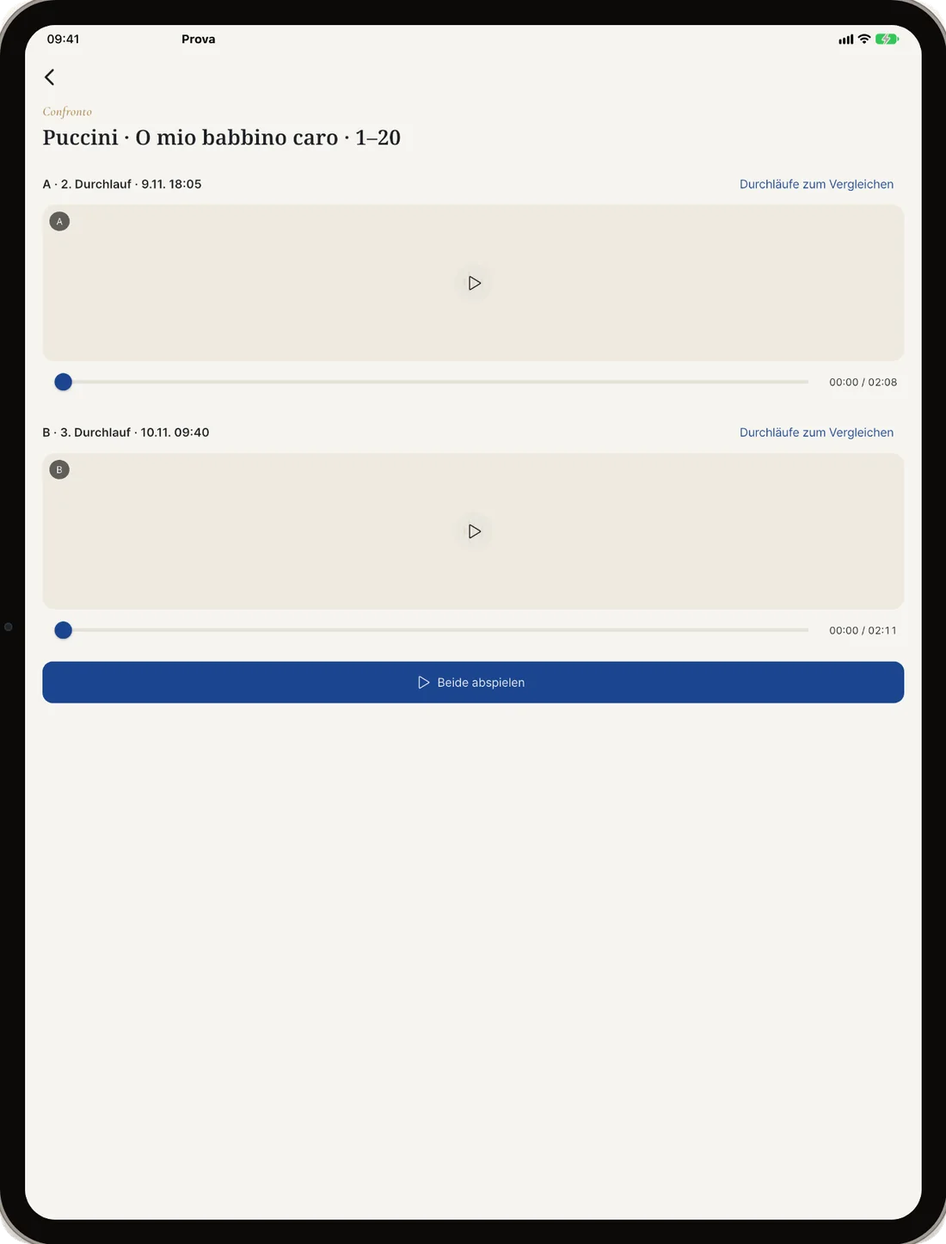
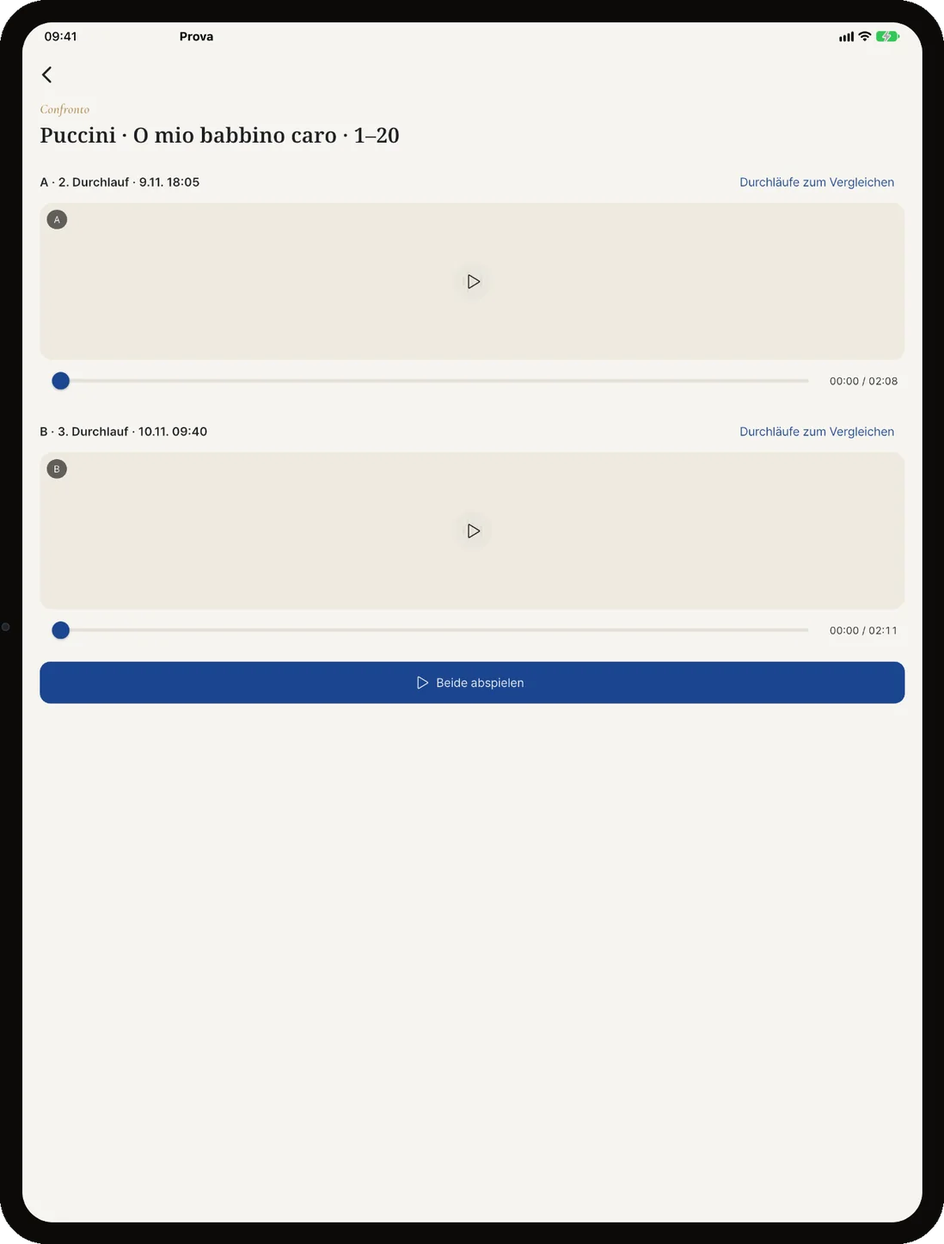
프로바 그림 모서리 흰 테 없애고 "내려받기" 제목 뺌
1. 모서리 halo
   마스크 반경이 46 이었는데 기기의 실제 모서리 반경은 **아이폰 118,
   아이패드 70** 이다(원본에서 재서 찾았다). 마스크가 기기 모서리보다
   작으니 모서리 바깥의 밝은 배경이 그림 안에 남아 흰 테처럼 보였다.
   - 기기마다 제 반경을 쓴다(IPHONE_R, IPAD_R). 그림자도 같은 반경.
   - 가장자리를 4px 안쪽에서 자른다(INSET). 원본에서 테두리와 배경이
     섞인 줄은 알파만 깎으면 색이 밝은 채로 남는다.
   잰 결과: 반투명 픽셀 평균 밝기 244 → 10~43, 밝은 테 픽셀 거의 0.

   배경을 구워 넣는 길은 안 썼다. 이 페이지에는 다크 모드가 있어
   (prefers-color-scheme:dark) 상아색을 구우면 어두운 화면에서 밝은
   덩어리가 된다.

2. "내려받기" 제목을 뺐다. 바로 아래 스토어 배지가 그 말을 한다.
   렛지 페이지에서도 같이 뺐다.

diff --git a/leggii/index.html b/leggii/index.html
@@ -120,7 +120,7 @@ footer a{color:var(--soft);margin-right:16px}
 <div data-l="ko" class="sum"><h2>렛지가 해 주는 일</h2><p class="sub">여덟 가지입니다. 아래에서 셋은 더 자세히 보실 수 있습니다.</p><div class="tiles"><div class="tile"><img data-shot="t1" src="/leggii/shots/en/t1.webp" alt="악보를 한곳에" width="720" height="540" loading="lazy" decoding="async"><div class="tx"><h3>악보를 한곳에</h3><p>PDF·카메라·IMSLP에서 가져와 한곳에</p></div></div><div class="tile"><img data-shot="t2" src="/leggii/shots/en/t2.webp" alt="연필처럼 적습니다" width="720" height="540" loading="lazy" decoding="async"><div class="tx"><h3>연필처럼 적습니다</h3><p>펜·형광펜·음악 기호 스탬프, Apple Pencil</p></div></div><div class="tile"><img data-shot="t3" src="/leggii/shots/en/t3.webp" alt="녹음하면 악보가 따라 넘어갑니다" width="720" height="540" loading="lazy" decoding="async"><div class="tx"><h3>녹음하면 악보가 따라 넘어갑니다</h3><p>어느 쪽을 언제 넘겼는지 함께 저장돼, 다시 들으면 따라 넘어갑니다</p></div></div><div class="tile"><img data-shot="t4" src="/leggii/shots/en/t4.webp" alt="들은 말을 시간과 페이지로" width="720" height="540" loading="lazy" decoding="async"><div class="tx"><h3>들은 말을 시간과 페이지로</h3><p>핵심·지적·숙제를 시간과 페이지로</p></div></div><div class="tile"><img data-shot="t6" src="/leggii/shots/en/t6.webp" alt="판본을 골라서 받습니다" width="720" height="540" loading="lazy" decoding="async"><div class="tx"><h3>판본을 골라서 받습니다</h3><p>출판사·가사 언어·편곡자를 보고 골라 받기</p></div></div><div class="tile"><img data-shot="t7" src="/leggii/shots/en/t7.webp" alt="메트로놈과 건반을 악보 위에" width="720" height="540" loading="lazy" decoding="async"><div class="tx"><h3>메트로놈과 건반을 악보 위에</h3><p>악보를 가리지 않고 그 위에 떠 있습니다</p></div></div><div class="tile"><img data-shot="t8" src="/leggii/shots/en/t8.webp" alt="물어보면 찾아 줍니다" width="720" height="540" loading="lazy" decoding="async"><div class="tx"><h3>물어보면 찾아 줍니다</h3><p>물어보면 찾아 주고 실행 버튼까지</p></div></div><div class="tile"><img data-shot="t5" src="/leggii/shots/en/t5.webp" alt="기기를 바꿔도 그대로" width="720" height="540" loading="lazy" decoding="async"><div class="tx"><h3>기기를 바꿔도 그대로</h3><p>Pro와 AI 시간, 클라우드가 기기마다 그대로</p></div></div></div></div><div data-l="en" class="sum on"><h2>What Leggii does</h2><p class="sub">Eight things. Three of them are shown up close below.</p><div class="tiles"><div class="tile"><img data-shot="t1" src="/leggii/shots/en/t1.webp" alt="All your scores in one place" width="720" height="540" loading="lazy" decoding="async"><div class="tx"><h3>All your scores in one place</h3><p>Bring them in from PDFs, the camera and IMSLP</p></div></div><div class="tile"><img data-shot="t2" src="/leggii/shots/en/t2.webp" alt="Mark up scores like with a pencil" width="720" height="540" loading="lazy" decoding="async"><div class="tx"><h3>Mark up scores like with a pencil</h3><p>Pen, highlighter, music stamps, Apple Pencil</p></div></div><div class="tile"><img data-shot="t3" src="/leggii/shots/en/t3.webp" alt="Record, and the score follows" width="720" height="540" loading="lazy" decoding="async"><div class="tx"><h3>Record, and the score follows</h3><p>Page turns are saved with the audio, so the score follows when you listen back</p></div></div><div class="tile"><img data-shot="t4" src="/leggii/shots/en/t4.webp" alt="What was said, by time and page" width="720" height="540" loading="lazy" decoding="async"><div class="tx"><h3>What was said, by time and page</h3><p>Key points, corrections and homework, by time and page</p></div></div><div class="tile"><img data-shot="t6" src="/leggii/shots/en/t6.webp" alt="Choose the edition you want" width="720" height="540" loading="lazy" decoding="async"><div class="tx"><h3>Choose the edition you want</h3><p>Choose by publisher, text language and arranger</p></div></div><div class="tile"><img data-shot="t7" src="/leggii/shots/en/t7.webp" alt="Metronome and keys right on the score" width="720" height="540" loading="lazy" decoding="async"><div class="tx"><h3>Metronome and keys right on the score</h3><p>They float above the music instead of covering it</p></div></div><div class="tile"><img data-shot="t8" src="/leggii/shots/en/t8.webp" alt="Just ask" width="720" height="540" loading="lazy" decoding="async"><div class="tx"><h3>Just ask</h3><p>Type a question and get the answer with a button</p></div></div><div class="tile"><img data-shot="t5" src="/leggii/shots/en/t5.webp" alt="Change device, keep everything" width="720" height="540" loading="lazy" decoding="async"><div class="tx"><h3>Change device, keep everything</h3><p>Pro, AI time and the cloud follow you to every device</p></div></div></div></div><div data-l="de" class="sum"><h2>Das kann Leggii</h2><p class="sub">Acht Dinge. Drei davon zeigen wir weiter unten genauer.</p><div class="tiles"><div class="tile"><img data-shot="t1" src="/leggii/shots/en/t1.webp" alt="Alle Noten an einem Ort" width="720" height="540" loading="lazy" decoding="async"><div class="tx"><h3>Alle Noten an einem Ort</h3><p>Aus PDFs, von der Kamera und aus IMSLP</p></div></div><div class="tile"><img data-shot="t2" src="/leggii/shots/en/t2.webp" alt="Schreiben wie mit dem Bleistift" width="720" height="540" loading="lazy" decoding="async"><div class="tx"><h3>Schreiben wie mit dem Bleistift</h3><p>Stift, Textmarker, Musikstempel, Apple Pencil</p></div></div><div class="tile"><img data-shot="t3" src="/leggii/shots/en/t3.webp" alt="Aufnehmen – die Noten blättern mit" width="720" height="540" loading="lazy" decoding="async"><div class="tx"><h3>Aufnehmen – die Noten blättern mit</h3><p>Das Umblättern wird mitgespeichert und beim Anhören blättern die Noten mit</p></div></div><div class="tile"><img data-shot="t4" src="/leggii/shots/en/t4.webp" alt="Das Gesagte nach Zeit und Seite" width="720" height="540" loading="lazy" decoding="async"><div class="tx"><h3>Das Gesagte nach Zeit und Seite</h3><p>Kernpunkte, Korrekturen und Hausaufgaben nach Zeit und Seite</p></div></div><div class="tile"><img data-shot="t6" src="/leggii/shots/en/t6.webp" alt="Die passende Ausgabe wählen" width="720" height="540" loading="lazy" decoding="async"><div class="tx"><h3>Die passende Ausgabe wählen</h3><p>Nach Verlag, Textsprache und Bearbeiter wählen</p></div></div><div class="tile"><img data-shot="t7" src="/leggii/shots/en/t7.webp" alt="Metronom und Tastatur auf den Noten" width="720" height="540" loading="lazy" decoding="async"><div class="tx"><h3>Metronom und Tastatur auf den Noten</h3><p>Sie schweben über den Noten, statt sie zu verdecken</p></div></div><div class="tile"><img data-shot="t8" src="/leggii/shots/en/t8.webp" alt="Einfach fragen" width="720" height="540" loading="lazy" decoding="async"><div class="tx"><h3>Einfach fragen</h3><p>Einfach fragen und die Antwort kommt samt Schaltfläche</p></div></div><div class="tile"><img data-shot="t5" src="/leggii/shots/en/t5.webp" alt="Gerät wechseln, alles behalten" width="720" height="540" loading="lazy" decoding="async"><div class="tx"><h3>Gerät wechseln, alles behalten</h3><p>Pro, KI-Zeit und Cloud begleiten Sie auf jedes Gerät</p></div></div></div></div>
 <div data-l="ko" class="feat"><div class="txt"><p class="kicker">녹음</p><h2>녹음하면 악보가 따라 넘어갑니다</h2><p>악보를 보다가 녹음 버튼만 누르면 됩니다. 화면을 꺼도 녹음은 계속되고, 어느 쪽을 언제 넘겼는지도 함께 저장됩니다. 다시 들으면 그때 보던 쪽이 저절로 따라 넘어갑니다.</p><ul><li>레슨과 리허설을 그대로</li><li>다른 화면이나 백그라운드에서도 재생</li><li>녹음한 자리를 눌러 바로 그 대목으로</li></ul></div><div><video class="shot" data-poster="d3" poster="/leggii/shots/en/d3.webp" width="1200" height="936" muted loop playsinline preload="none" aria-label="녹음하면 악보가 따라 넘어갑니다"><source src="/leggii/shots/follow.mp4" type="video/mp4"></video></div></div><div data-l="ko" class="feat flip"><div class="txt"><p class="kicker">AI 레슨 분석</p><h2>들은 말을 시간과 페이지로</h2><p>레슨에서 나온 말을 핵심, 지적, 숙제로 나눠 정리해 드립니다. 한 시간 넘게 받다 보면 앞부분에서 들은 말은 잘 기억나지 않고, 외국어로 배우면 놓치는 말까지 생깁니다. 끝나고 다시 읽어 보면 됩니다.</p><ul><li>레슨 노트: 지적 · 핵심 · 숙제</li><li>대화 받아 적기와 번역</li><li>결과를 PDF로 저장해 그 위에 다시 필기</li><li>요청할 때만 돌아가고, 쓸 시간을 먼저 보여 드립니다</li></ul></div><div><img class="shot" data-shot="d4" src="/leggii/shots/en/d4.webp" alt="들은 말을 시간과 페이지로" width="1200" height="936" loading="lazy" decoding="async"></div></div><div data-l="ko" class="feat flip"><div class="txt"><p class="kicker">위레가토 아이디와 클라우드</p><h2>기기를 바꿔도 그대로</h2><p>위레가토 아이디로 로그인하면 Pro와 AI 시간이 모든 기기에서 이어집니다. 로그인하지 않아도 렛지의 기본 기능은 다 쓸 수 있습니다.</p><ul><li>렛지 클라우드(Plus): 악보 · 필기 · 폴더 · 연주목록 · 녹음을 쓰시는 모든 기기에서 똑같이</li><li>자주 안 보는 악보는 클라우드에만 두어 기기 용량 확보</li><li>클라우드를 쓰지 않으면 악보와 녹음은 기기에만 남습니다</li></ul></div><div><img class="shot" data-shot="d5" src="/leggii/shots/en/d5.webp" alt="기기를 바꿔도 그대로" width="1200" height="936" loading="lazy" decoding="async"></div></div><div data-l="en" class="feat on"><div class="txt"><p class="kicker">Record</p><h2>Record, and the score follows</h2><p>Hit record while you are reading. It keeps going with the screen off, and which page you turned to, and when, is saved with the audio. Play it back and the pages turn with you.</p><ul><li>Lessons and rehearsals as they happened</li><li>Playback continues on other screens and in the background</li><li>Tap a moment to jump straight to that passage</li></ul></div><div><video class="shot" data-poster="d3" poster="/leggii/shots/en/d3.webp" width="1200" height="936" muted loop playsinline preload="none" aria-label="Record, and the score follows"><source src="/leggii/shots/follow.mp4" type="video/mp4"></video></div></div><div data-l="en" class="feat flip on"><div class="txt"><p class="kicker">AI lesson notes</p><h2>What was said, by time and page</h2><p>What was said in the lesson, sorted into key points, corrections and homework. After an hour or more the beginning has already slipped away, and in a language you are still learning more of it goes past you. Read it back once the lesson is over.</p><ul><li>Lesson notes: corrections, key points, homework</li><li>Word-for-word transcript, with translation</li><li>Save the result as a PDF and write on it</li><li>Runs only when you ask, and shows the AI time first</li></ul></div><div><img class="shot" data-shot="d4" src="/leggii/shots/en/d4.webp" alt="What was said, by time and page" width="1200" height="936" loading="lazy" decoding="async"></div></div><div data-l="en" class="feat flip on"><div class="txt"><p class="kicker">welegato ID and cloud</p><h2>Change device, keep everything</h2><p>Sign in with your welegato ID and your Pro and AI time follow you to every device. Without signing in, all of Leggii's basics still work.</p><ul><li>Leggii cloud (Plus): scores, ink, folders, setlists and recordings the same on every device you use</li><li>Keep rarely used scores in the cloud only and free up space</li><li>Without the cloud, scores and recordings stay on your device</li></ul></div><div><img class="shot" data-shot="d5" src="/leggii/shots/en/d5.webp" alt="Change device, keep everything" width="1200" height="936" loading="lazy" decoding="async"></div></div><div data-l="de" class="feat"><div class="txt"><p class="kicker">Aufnahme</p><h2>Aufnehmen – die Noten blättern mit</h2><p>Tippen Sie beim Lesen einfach auf Aufnahme. Auch bei ausgeschaltetem Bildschirm läuft sie weiter, und wann Sie auf welche Seite geblättert haben, wird mitgespeichert. Beim Anhören blättern die Noten mit.</p><ul><li>Unterricht und Proben, so wie sie waren</li><li>Wiedergabe läuft auf anderen Seiten und im Hintergrund weiter</li><li>Auf eine Stelle tippen und direkt dorthin springen</li></ul></div><div><video class="shot" data-poster="d3" poster="/leggii/shots/en/d3.webp" width="1200" height="936" muted loop playsinline preload="none" aria-label="Aufnehmen – die Noten blättern mit"><source src="/leggii/shots/follow.mp4" type="video/mp4"></video></div></div><div data-l="de" class="feat flip"><div class="txt"><p class="kicker">KI-Unterrichtsnotizen</p><h2>Das Gesagte nach Zeit und Seite</h2><p>Was im Unterricht gesagt wurde, sortiert nach Kernpunkten, Korrekturen und Hausaufgaben. Nach einer Stunde ist der Anfang längst weg, und in einer Sprache, die man noch lernt, geht noch mehr unter. Nach der Stunde lesen Sie alles in Ruhe nach.</p><ul><li>Unterrichtsnotizen: Korrekturen, Kernpunkte, Hausaufgaben</li><li>Mitschrift Wort für Wort, mit Übersetzung</li><li>Ergebnis als PDF speichern und darauf schreiben</li><li>Läuft nur auf Ihren Wunsch und zeigt vorher die KI-Zeit</li></ul></div><div><img class="shot" data-shot="d4" src="/leggii/shots/en/d4.webp" alt="Das Gesagte nach Zeit und Seite" width="1200" height="936" loading="lazy" decoding="async"></div></div><div data-l="de" class="feat flip"><div class="txt"><p class="kicker">welegato-ID und Cloud</p><h2>Gerät wechseln, alles behalten</h2><p>Mit der welegato-ID angemeldet begleiten Sie Pro und KI-Zeit auf jedes Gerät. Ohne Anmeldung funktionieren alle Grundfunktionen von Leggii.</p><ul><li>Leggii Cloud (Plus): Noten, Notizen, Ordner, Setlists und Aufnahmen auf allen Ihren Geräten gleich</li><li>Selten genutzte Noten nur in der Cloud behalten und Platz sparen</li><li>Ohne Cloud bleiben Noten und Aufnahmen auf Ihrem Gerät</li></ul></div><div><img class="shot" data-shot="d5" src="/leggii/shots/en/d5.webp" alt="Gerät wechseln, alles behalten" width="1200" height="936" loading="lazy" decoding="async"></div></div>
 <div data-l="ko" class="plans"><h2>요금제</h2><p class="sub">레슨이 끝나면 핵심과 지적, 숙제가 정리되어 있습니다. 악보와 필기, 녹음은 어느 기기에서나 그대로입니다.</p><div class="ptabwrap"><table class="ptab"><thead><tr><th></th><th>무료</th><th>7일 체험</th><th>Pro</th><th>Plus</th></tr></thead><tbody><tr><td>악보·필기·녹음·메트로놈</td><td>✓</td><td>✓</td><td>✓</td><td>✓</td></tr><tr><td>Pro 기능 전부</td><td>–</td><td>✓</td><td>✓</td><td>✓</td></tr><tr><td>광고 배너</td><td>있음</td><td>없음</td><td>없음</td><td>없음</td></tr><tr><td>매월 AI 분석</td><td>–</td><td>30분</td><td>30분</td><td>5시간</td></tr><tr><td>렛지 클라우드</td><td>–</td><td>–</td><td>–</td><td>10GB · 50GB</td></tr><tr><td>가격</td><td>무료</td><td>무료</td><td data-price="pro"></td><td data-price="plus"></td></tr></tbody></table></div><p class="value">매월 AI 5시간은 한 시간짜리 레슨 다섯 번 분량입니다. 클라우드 10GB에는 녹음이 100시간 넘게 들어갑니다.</p><p class="punch">레슨 한 번 값이면 Plus를 일 년 씁니다.</p><p class="note" style="margin-top:10px" data-pricenote></p><p style="margin:20px 0 0"><a class="cta" href="/leggii/plus/">여기서 바로 Plus 구독하기 →</a></p><p class="note" style="margin-top:8px" data-pricecta></p></div><div data-l="en" class="plans on"><h2>Plans</h2><p class="sub">The lesson ends and the key points, the corrections and the homework are already written up. Scores, ink and recordings are the same on every device.</p><div class="ptabwrap"><table class="ptab"><thead><tr><th></th><th>Free</th><th>7-day trial</th><th>Pro</th><th>Plus</th></tr></thead><tbody><tr><td>Scores, ink, recording, metronome</td><td>✓</td><td>✓</td><td>✓</td><td>✓</td></tr><tr><td>All Pro features</td><td>–</td><td>✓</td><td>✓</td><td>✓</td></tr><tr><td>Ads</td><td>yes</td><td>no</td><td>no</td><td>no</td></tr><tr><td>AI analysis a month</td><td>–</td><td>30 min</td><td>30 min</td><td>5 hours</td></tr><tr><td>Leggii cloud</td><td>–</td><td>–</td><td>–</td><td>10 GB · 50 GB</td></tr><tr><td>Price</td><td>free</td><td>free</td><td data-price="pro"></td><td data-price="plus"></td></tr></tbody></table></div><p class="value">Five hours of AI a month is five one-hour lessons. 10 GB holds over a hundred hours of recordings.</p><p class="punch">A year of Plus costs about one lesson.</p><p class="note" style="margin-top:10px" data-pricenote></p><p style="margin:20px 0 0"><a class="cta" href="/leggii/plus/">Subscribe to Plus here →</a></p><p class="note" style="margin-top:8px" data-pricecta></p></div><div data-l="de" class="plans"><h2>Tarife</h2><p class="sub">Die Stunde ist vorbei, und Kernpunkte, Korrekturen und Hausaufgaben stehen schon da. Noten, Notizen und Aufnahmen sind auf jedem Gerät dieselben.</p><div class="ptabwrap"><table class="ptab"><thead><tr><th></th><th>Kostenlos</th><th>7 Tage testen</th><th>Pro</th><th>Plus</th></tr></thead><tbody><tr><td>Noten, Notizen, Aufnahme, Metronom</td><td>✓</td><td>✓</td><td>✓</td><td>✓</td></tr><tr><td>Alle Pro-Funktionen</td><td>–</td><td>✓</td><td>✓</td><td>✓</td></tr><tr><td>Werbung</td><td>ja</td><td>nein</td><td>nein</td><td>nein</td></tr><tr><td>KI-Analyse im Monat</td><td>–</td><td>30 Min.</td><td>30 Min.</td><td>5 Std.</td></tr><tr><td>Leggii Cloud</td><td>–</td><td>–</td><td>–</td><td>10 GB · 50 GB</td></tr><tr><td>Preis</td><td>kostenlos</td><td>kostenlos</td><td data-price="pro"></td><td data-price="plus"></td></tr></tbody></table></div><p class="value">Fünf Stunden KI im Monat sind fünf Unterrichtsstunden. In 10 GB passen über hundert Stunden Aufnahmen.</p><p class="punch">Ein Jahr Plus kostet so viel wie eine Unterrichtsstunde.</p><p class="note" style="margin-top:10px" data-pricenote></p><p style="margin:20px 0 0"><a class="cta" href="/leggii/plus/">Plus hier abonnieren →</a></p><p class="note" style="margin-top:8px" data-pricecta></p></div>
-<div data-l="ko" class="getit"><h2>내려받기</h2><p>아이패드와 아이폰은 App Store에서, 안드로이드는 Google Play에서 받으세요.</p><div class="stores"><a href="https://play.google.com/store/apps/details?id=com.vicinolabs.leggii&amp;hl=ko" target="_blank" rel="noopener" aria-label="Google Play"><img src="/badges/google-play-ko-nb.png" alt="Google Play" width="162" height="48" style="height:48px;width:auto;border-radius:10px;border:1px solid #a6a6a6;box-sizing:border-box"></a><a href="https://apps.apple.com/app/id6832925566" target="_blank" rel="noopener" aria-label="App Store"><img src="/badges/app-store-ko.svg" alt="App Store" width="144" height="48" style="height:48px;width:auto"></a></div><a class="fam" href="/ko/famiglia/">Famiglia Vicino의 다른 앱 보기 →</a></div><div data-l="en" class="getit on"><h2>Get Leggii</h2><p>On the App Store for iPad and iPhone, on Google Play for Android.</p><div class="stores"><a href="https://play.google.com/store/apps/details?id=com.vicinolabs.leggii&amp;hl=en" target="_blank" rel="noopener" aria-label="Google Play"><img src="/badges/google-play-en-nb.png" alt="Google Play" width="162" height="48" style="height:48px;width:auto;border-radius:10px;border:1px solid #a6a6a6;box-sizing:border-box"></a><a href="https://apps.apple.com/app/id6832925566" target="_blank" rel="noopener" aria-label="App Store"><img src="/badges/app-store-en.svg" alt="App Store" width="144" height="48" style="height:48px;width:auto"></a></div><a class="fam" href="/en/famiglia/">More apps from Famiglia Vicino →</a></div><div data-l="de" class="getit"><h2>Leggii laden</h2><p>Im App Store für iPad und iPhone, bei Google Play für Android.</p><div class="stores"><a href="https://play.google.com/store/apps/details?id=com.vicinolabs.leggii&amp;hl=de" target="_blank" rel="noopener" aria-label="Google Play"><img src="/badges/google-play-de-nb.png" alt="Google Play" width="162" height="48" style="height:48px;width:auto;border-radius:10px;border:1px solid #a6a6a6;box-sizing:border-box"></a><a href="https://apps.apple.com/app/id6832925566" target="_blank" rel="noopener" aria-label="App Store"><img src="/badges/app-store-de.svg" alt="App Store" width="144" height="48" style="height:48px;width:auto"></a></div><a class="fam" href="/famiglia/">Weitere Apps der Famiglia Vicino →</a></div>
+<div data-l="ko" class="getit"><p>아이패드와 아이폰은 App Store에서, 안드로이드는 Google Play에서 받으세요.</p><div class="stores"><a href="https://play.google.com/store/apps/details?id=com.vicinolabs.leggii&amp;hl=ko" target="_blank" rel="noopener" aria-label="Google Play"><img src="/badges/google-play-ko-nb.png" alt="Google Play" width="162" height="48" style="height:48px;width:auto;border-radius:10px;border:1px solid #a6a6a6;box-sizing:border-box"></a><a href="https://apps.apple.com/app/id6832925566" target="_blank" rel="noopener" aria-label="App Store"><img src="/badges/app-store-ko.svg" alt="App Store" width="144" height="48" style="height:48px;width:auto"></a></div><a class="fam" href="/ko/famiglia/">Famiglia Vicino의 다른 앱 보기 →</a></div><div data-l="en" class="getit on"><p>On the App Store for iPad and iPhone, on Google Play for Android.</p><div class="stores"><a href="https://play.google.com/store/apps/details?id=com.vicinolabs.leggii&amp;hl=en" target="_blank" rel="noopener" aria-label="Google Play"><img src="/badges/google-play-en-nb.png" alt="Google Play" width="162" height="48" style="height:48px;width:auto;border-radius:10px;border:1px solid #a6a6a6;box-sizing:border-box"></a><a href="https://apps.apple.com/app/id6832925566" target="_blank" rel="noopener" aria-label="App Store"><img src="/badges/app-store-en.svg" alt="App Store" width="144" height="48" style="height:48px;width:auto"></a></div><a class="fam" href="/en/famiglia/">More apps from Famiglia Vicino →</a></div><div data-l="de" class="getit"><p>Im App Store für iPad und iPhone, bei Google Play für Android.</p><div class="stores"><a href="https://play.google.com/store/apps/details?id=com.vicinolabs.leggii&amp;hl=de" target="_blank" rel="noopener" aria-label="Google Play"><img src="/badges/google-play-de-nb.png" alt="Google Play" width="162" height="48" style="height:48px;width:auto;border-radius:10px;border:1px solid #a6a6a6;box-sizing:border-box"></a><a href="https://apps.apple.com/app/id6832925566" target="_blank" rel="noopener" aria-label="App Store"><img src="/badges/app-store-de.svg" alt="App Store" width="144" height="48" style="height:48px;width:auto"></a></div><a class="fam" href="/famiglia/">Weitere Apps der Famiglia Vicino →</a></div>
 </main>
 <footer><div class="wrap"><p data-l="ko" style="margin:0"><a href="/leggii/privacy/#ko">개인정보처리방침</a><a href="/leggii/terms/#ko">이용약관</a><a href="/impressum/">Impressum</a><a href="mailto:contact@vicinolabs.com">contact@vicinolabs.com</a></p><p data-l="en" class=on style="margin:0"><a href="/leggii/privacy/#en">Privacy Policy</a><a href="/leggii/terms/#en">Terms of Service</a><a href="/impressum/">Impressum</a><a href="mailto:contact@vicinolabs.com">contact@vicinolabs.com</a></p><p data-l="de" style="margin:0"><a href="/leggii/privacy/#de">Datenschutzerklärung</a><a href="/leggii/terms/#de">Nutzungsbedingungen</a><a href="/impressum/">Impressum</a><a href="mailto:contact@vicinolabs.com">contact@vicinolabs.com</a></p><div style="margin-top:10px">© 2026 Vicino Labs</div></div></footer>
 <script>(function(){var META={"ko": ["렛지 악보: 악보와 레슨 녹음, AI 레슨 노트 | Vicino Labs", "렛지 악보는 아이패드에 맞춰 만든 악보 앱입니다. PDF·사진·IMSLP에서 악보를 가져오고, 레슨과 리허설을 녹음하면 악보가 따라 넘어가며, AI가 지적과 숙제를 정리합니다."], "en": ["Leggii: sheet music, lesson recordings and AI lesson notes | Vicino Labs", "Leggii is a sheet music app made for the tablet. Import PDFs, photos and IMSLP editions, record your lessons and rehearsals while the score turns with you, and let AI sort out what was said."], "de": ["Leggii: Noten, Unterrichtsaufnahmen und KI-Notizen | Vicino Labs", "Leggii ist die Noten-App fürs Tablet: PDFs, Fotos und IMSLP-Ausgaben importieren, Unterricht und Proben aufnehmen, während die Noten mitblättern, und die KI fasst das Gesagte zusammen."]},PRICE={"ko": {"eu": ["9,99 €", "월 3,99 € 부터", "결제는 앱 스토어·구글 플레이에서 하십니다. AI 시간 충전(5시간 · 15시간, 12개월 사용)도 앱 안에서 하실 수 있습니다. 값은 스토어에서 확인하실 수 있습니다.", "위레가토 아이디로 가입하고 카드로 결제합니다."], "kr": ["17,000원", "월 5,500원부터", "한국 가격입니다. 결제는 앱 스토어·구글 플레이에서 하시며, AI 시간 충전(5시간 · 15시간, 12개월 사용)도 앱 안에서 하실 수 있습니다. 값은 스토어에서 확인하실 수 있습니다.", "홈페이지 결제는 유럽에서만 됩니다. 앱 스토어·구글 플레이에서 구독해 주세요."], "xx": ["스토어에서 구매", "스토어에서 구독", "결제는 앱 스토어·구글 플레이에서 하십니다. 나라마다 값이 달라 스토어에서 확인하실 수 있습니다. AI 시간 충전(5시간 · 15시간, 12개월 사용)도 앱 안에서 하실 수 있습니다.", "홈페이지 결제는 유럽에서만 됩니다. 앱 스토어·구글 플레이에서 구독해 주세요."]}, "en": {"eu": ["€9.99 once", "from €3.99 a month", "You pay in the App Store or on Google Play, and AI time top-ups (5 and 15 hours, valid 12 months) are bought in the app. The store always shows the current price.", "Sign up with a welegato ID and pay by card."], "kr": ["₩17,000 once", "from ₩5,500 a month", "Prices for Korea. You pay in the App Store or on Google Play, and AI time top-ups (5 and 15 hours, valid 12 months) are bought in the app. The store always shows the current price.", "Website payment is for Europe only. Subscribe on the App Store or Google Play."], "xx": ["in the store", "in the store", "You pay in the App Store or on Google Play, where the price for your country is shown. AI time top-ups (5 and 15 hours, valid 12 months) are bought in the app.", "Website payment is for Europe only. Subscribe on the App Store or Google Play."]}, "de": {"eu": ["9,99 € einmalig", "ab 3,99 € im Monat", "Bezahlt wird im App Store oder bei Google Play; KI-Zeit zum Aufladen (5 und 15 Stunden, 12 Monate gültig) kaufen Sie in der App. Den aktuellen Preis zeigt immer der Store.", "Mit einer welegato-ID anmelden und per Karte zahlen."], "kr": ["17.000 ₩ einmalig", "ab 5.500 ₩ im Monat", "Preise für Korea. Bezahlt wird im App Store oder bei Google Play; KI-Zeit zum Aufladen (5 und 15 Stunden, 12 Monate gültig) kaufen Sie in der App. Den aktuellen Preis zeigt immer der Store.", "Die Zahlung über die Website gibt es nur in Europa. Abonnieren Sie im App Store oder bei Google Play."], "xx": ["im Store", "im Store", "Bezahlt wird im App Store oder bei Google Play, wo der Preis für Ihr Land steht. KI-Zeit zum Aufladen (5 und 15 Stunden, 12 Monate gültig) kaufen Sie in der App.", "Die Zahlung über die Website gibt es nur in Europa. Abonnieren Sie im App Store oder bei Google Play."]}};

diff --git a/prova/index.html b/prova/index.html
@@ -132,7 +132,7 @@ border-radius:16px;background:var(--paper);display:grid;grid-template-columns:1f
 <section data-l="ko" class="sum"><div class="tiles"><div class="tile"><img class="shot" data-tile="t1" src="/prova/shots/en/t1.webp" alt="" width="520" height="1097" loading="lazy" decoding="async"><div class="tx"><h3>레슨과 리허설</h3><p>선생님 시범과 지적, 지휘자의 지시까지 소리로 또는 영상으로</p></div></div><div class="tile"><img class="shot" data-tile="t3" src="/prova/shots/en/t3.webp" alt="" width="520" height="1097" loading="lazy" decoding="async"><div class="tx"><h3>AI 레슨 노트</h3><p>짚어 주신 곳, 칭찬, 숙제가 시간과 함께 적힙니다</p></div></div><div class="tile"><div class="tx"><h3>제출 영상</h3><p>오디션·콩쿠르 영상을 0.6·1·2배 줌으로 찍고 보내기 전에 점검합니다</p></div></div><div class="tile"><div class="tx"><h3>연습 녹음</h3><p>같은 구간을 여러 번 녹음하면 1번째, 2번째로 번호가 붙습니다</p></div></div><div class="tile"><img class="shot" data-tile="t4" src="/prova/shots/en/t4.webp" alt="" width="520" height="1097" loading="lazy" decoding="async"><div class="tx"><h3>두 녹음 비교</h3><p>지난번과 나란히 틀어 무엇이 달라졌는지 봅니다</p></div></div><div class="tile"><img class="shot" data-tile="t2" src="/prova/shots/en/t2.webp" alt="" width="520" height="1097" loading="lazy" decoding="async"><div class="tx"><h3>AI 연주 점검</h3><p>음정·박자·템포·음색·셈여림·프레이징을 마디와 시간으로</p></div></div><div class="tile"><div class="tx"><h3>녹음하는 동안</h3><p>안드로이드에서는 방해 금지를 켜고, 끝나면 되돌립니다</p></div></div><div class="tile"><div class="tx"><h3>내 성부와 기준음</h3><p>성부와 악기, 기준음을 정해 두면 AI가 그에 맞춰 봅니다</p></div></div></div></section><section data-l="en" class="sum on"><div class="tiles"><div class="tile"><img class="shot" data-tile="t1" src="/prova/shots/en/t1.webp" alt="" width="520" height="1097" loading="lazy" decoding="async"><div class="tx"><h3>Lessons and rehearsals</h3><p>What your teacher plays and corrects, and what the conductor asks for, in sound or on video</p></div></div><div class="tile"><img class="shot" data-tile="t3" src="/prova/shots/en/t3.webp" alt="" width="520" height="1097" loading="lazy" decoding="async"><div class="tx"><h3>AI lesson notes</h3><p>The corrections, the praise and the homework, each with its time</p></div></div><div class="tile"><div class="tx"><h3>Audition videos</h3><p>Film at 0.6×, 1× or 2× and check the video before you send it</p></div></div><div class="tile"><div class="tx"><h3>Practice runs</h3><p>Record the same passage again and it is numbered: Run 1, Run 2</p></div></div><div class="tile"><img class="shot" data-tile="t4" src="/prova/shots/en/t4.webp" alt="" width="520" height="1097" loading="lazy" decoding="async"><div class="tx"><h3>Two runs side by side</h3><p>Play them together and hear what changed</p></div></div><div class="tile"><img class="shot" data-tile="t2" src="/prova/shots/en/t2.webp" alt="" width="520" height="1097" loading="lazy" decoding="async"><div class="tx"><h3>AI listens to the playing</h3><p>Intonation, rhythm, tempo, tone, dynamics and phrasing, by bar and by time</p></div></div><div class="tile"><div class="tx"><h3>While you record</h3><p>On Android it turns on Do Not Disturb and puts it back afterwards</p></div></div><div class="tile"><div class="tx"><h3>Your part and your pitch</h3><p>Set the voice or instrument and the reference pitch and the AI judges by that</p></div></div></div></section><section data-l="de" class="sum"><div class="tiles"><div class="tile"><img class="shot" data-tile="t1" src="/prova/shots/en/t1.webp" alt="" width="520" height="1097" loading="lazy" decoding="async"><div class="tx"><h3>Unterricht und Proben</h3><p>Was die Lehrkraft vormacht und korrigiert und was der Dirigent verlangt, als Ton oder Video</p></div></div><div class="tile"><img class="shot" data-tile="t3" src="/prova/shots/en/t3.webp" alt="" width="520" height="1097" loading="lazy" decoding="async"><div class="tx"><h3>KI-Notizen zur Stunde</h3><p>Korrekturen, Lob und Hausaufgaben, jeweils mit der Zeit</p></div></div><div class="tile"><div class="tx"><h3>Bewerbungsvideos</h3><p>Mit 0,6×, 1× oder 2× filmen und das Video vor dem Abschicken prüfen</p></div></div><div class="tile"><div class="tx"><h3>Übe-Aufnahmen</h3><p>Dieselbe Stelle noch einmal, und sie wird nummeriert: Durchlauf 1, Durchlauf 2</p></div></div><div class="tile"><img class="shot" data-tile="t4" src="/prova/shots/en/t4.webp" alt="" width="520" height="1097" loading="lazy" decoding="async"><div class="tx"><h3>Zwei Aufnahmen nebeneinander</h3><p>Zusammen abspielen und hören, was sich geändert hat</p></div></div><div class="tile"><img class="shot" data-tile="t2" src="/prova/shots/en/t2.webp" alt="" width="520" height="1097" loading="lazy" decoding="async"><div class="tx"><h3>Die KI hört das Spiel</h3><p>Intonation, Rhythmus, Tempo, Klang, Dynamik und Phrasierung, nach Takt und Zeit</p></div></div><div class="tile"><div class="tx"><h3>Während der Aufnahme</h3><p>Unter Android wird „Nicht stören“ eingeschaltet und danach zurückgestellt</p></div></div><div class="tile"><div class="tx"><h3>Ihre Stimme, Ihr Kammerton</h3><p>Stimmlage oder Instrument und Kammerton einstellen, danach urteilt die KI</p></div></div></div></section>
 <section data-l="ko" class="feat"><div class="tx"><p class="kicker">연습 녹음</p><h2>지난번과 나란히 들어 봅니다</h2><p>같은 구간을 여러 번 녹음하면 1번째, 2번째로 번호가 붙습니다. 두 녹음을 나란히 틀면 무엇이 달라졌는지 귀로 바로 압니다.</p><ul><li>곡과 구간별로 모여 있습니다</li><li>파형 위의 점을 누르면 그 자리부터 들립니다</li></ul></div><div class="pic"><img class="shot" data-shot="d4" src="/prova/shots/en/d4.webp" alt="지난번과 나란히 들어 봅니다" width="1100" height="1447" loading="lazy" decoding="async"></div></section><section data-l="ko" class="feat flip"><div class="tx"><p class="kicker">AI 연주 점검</p><h2>잘된 곳과 다듬을 곳을 짚습니다</h2><p>AI가 음정, 박자, 템포, 음색, 셈여림, 프레이징, 호흡, 발음을 마디와 시간으로 짚어 줍니다. 초록은 잘된 곳, 주황은 연습할 곳입니다.</p><ul><li>성부와 기준음(440·442·443Hz)을 정해 두면 그에 맞춰 봅니다</li><li>영상은 크게 보면서 그 자리의 메모를 함께 봅니다</li></ul></div><div class="pic"><img class="shot" data-shot="d2" src="/prova/shots/en/d2.webp" alt="잘된 곳과 다듬을 곳을 짚습니다" width="1100" height="1447" loading="lazy" decoding="async"></div></section><section data-l="en" class="feat on"><div class="tx"><p class="kicker">Practice runs</p><h2>Hear last time and this time together</h2><p>Record the same passage again and it is numbered: Run 1, Run 2. Play two of them together and your ear tells you what changed.</p><ul><li>Gathered by piece and by passage</li><li>Tap a mark on the waveform and it plays from there</li></ul></div><div class="pic"><img class="shot" data-shot="d4" src="/prova/shots/en/d4.webp" alt="Hear last time and this time together" width="1100" height="1447" loading="lazy" decoding="async"></div></section><section data-l="en" class="feat flip on"><div class="tx"><p class="kicker">The AI listens to the playing</p><h2>What went well and what to work on</h2><p>The AI marks intonation, rhythm, tempo, tone, dynamics, phrasing, breathing and diction by bar and by time. Green went well, orange is to work on.</p><ul><li>Set your part and your pitch (440, 442, 443 Hz) and it judges by that</li><li>Watch the video large with the notes for that moment beside it</li></ul></div><div class="pic"><img class="shot" data-shot="d2" src="/prova/shots/en/d2.webp" alt="What went well and what to work on" width="1100" height="1447" loading="lazy" decoding="async"></div></section><section data-l="de" class="feat"><div class="tx"><p class="kicker">Übe-Aufnahmen</p><h2>Das letzte Mal und dieses Mal zusammen hören</h2><p>Dieselbe Stelle noch einmal aufnehmen, und sie wird nummeriert: Durchlauf 1, Durchlauf 2. Zwei Aufnahmen zusammen abspielen, und das Ohr merkt sofort, was sich geändert hat.</p><ul><li>Nach Stück und Stelle gesammelt</li><li>Auf eine Marke in der Wellenform tippen, und es läuft von dort</li></ul></div><div class="pic"><img class="shot" data-shot="d4" src="/prova/shots/en/d4.webp" alt="Das letzte Mal und dieses Mal zusammen hören" width="1100" height="1447" loading="lazy" decoding="async"></div></section><section data-l="de" class="feat flip"><div class="tx"><p class="kicker">Die KI hört das Spiel</p><h2>Was gelungen ist und woran Sie arbeiten</h2><p>Die KI markiert Intonation, Rhythmus, Tempo, Klang, Dynamik, Phrasierung, Atem und Aussprache nach Takt und Zeit. Grün ist gelungen, Orange ist zum Üben.</p><ul><li>Stimmlage und Kammerton (440, 442, 443 Hz) einstellen, danach urteilt sie</li><li>Das Video groß ansehen, daneben die Notizen zu dieser Stelle</li></ul></div><div class="pic"><img class="shot" data-shot="d2" src="/prova/shots/en/d2.webp" alt="Was gelungen ist und woran Sie arbeiten" width="1100" height="1447" loading="lazy" decoding="async"></div></section>
 <section data-l="ko" class="pri"><div><h2>녹음은 이 기기에 남습니다</h2><p>녹음과 영상은 기기에 저장됩니다. AI 분석에는 소리만 보내고, 분석이 끝나면 지웁니다. 영상의 화면은 보내지 않습니다.</p></div><div><h2>녹음하기 전에</h2><p>레슨을 녹음할 때는 선생님과 함께 녹음되는 분들의 동의를 먼저 받아 주세요. 18세 미만이면 보호자의 동의도 필요합니다. 앱이 녹음을 시작하기 전에 확인합니다.</p></div></section><section data-l="en" class="pri on"><div><h2>The recordings stay on your device</h2><p>Recordings and videos are kept on the device. Only the sound goes out for the AI analysis, and it is deleted when the analysis is done. The picture never leaves the device.</p></div><div><h2>Before you record</h2><p>Ask the teacher, and everyone else who will be recorded, before you record a lesson. For anyone under 18 a parent has to agree as well. Prova asks you to confirm this before it starts.</p></div></section><section data-l="de" class="pri"><div><h2>Die Aufnahmen bleiben auf Ihrem Gerät</h2><p>Aufnahmen und Videos liegen auf dem Gerät. Für die KI-Analyse geht nur der Ton hinaus, und er wird nach der Analyse gelöscht. Das Bild verlässt das Gerät nicht.</p></div><div><h2>Vor der Aufnahme</h2><p>Holen Sie vor einer Aufnahme in der Stunde das Einverständnis der Lehrkraft und aller ein, die mit aufgenommen werden. Bei unter 18-Jährigen muss auch ein Elternteil einverstanden sein. Prova fragt vor dem Start danach.</p></div></section>
-<div data-l="ko" class="getit"><h2>내려받기</h2><p>녹음과 듣기, 비교는 로그인 없이 씁니다. AI 분석과 클라우드는 위레가토 아이디로 로그인해서 씁니다. 처음 로그인하시면 AI 30분이 7일 동안 열립니다.</p><div class="stores"><a href="https://play.google.com/store/apps/details?id=com.vicinolabs.prova&amp;hl=ko" target="_blank" rel="noopener" aria-label="Google Play"><img src="/badges/google-play-ko-nb.png" alt="Google Play" width="162" height="48" style="height:48px;width:auto;border-radius:10px;border:1px solid #a6a6a6;box-sizing:border-box"></a></div><a class="fam" href="/ko/famiglia/">앱들이 함께 일하는 방법 →</a></div><div data-l="en" class="getit on"><h2>Get Prova</h2><p>Recording, listening and comparing need no account. The AI analysis and the cloud work when you sign in with your welegato ID. Your first sign-in opens 30 AI minutes for seven days.</p><div class="stores"><a href="https://play.google.com/store/apps/details?id=com.vicinolabs.prova&amp;hl=en" target="_blank" rel="noopener" aria-label="Google Play"><img src="/badges/google-play-en-nb.png" alt="Google Play" width="162" height="48" style="height:48px;width:auto;border-radius:10px;border:1px solid #a6a6a6;box-sizing:border-box"></a></div><a class="fam" href="/en/famiglia/">How the apps work together →</a></div><div data-l="de" class="getit"><h2>Prova laden</h2><p>Aufnehmen, Anhören und Vergleichen brauchen kein Konto. Die KI-Analyse und die Cloud nutzen Sie mit Ihrer welegato-ID. Die erste Anmeldung öffnet 30 KI-Minuten für sieben Tage.</p><div class="stores"><a href="https://play.google.com/store/apps/details?id=com.vicinolabs.prova&amp;hl=de" target="_blank" rel="noopener" aria-label="Google Play"><img src="/badges/google-play-de-nb.png" alt="Google Play" width="162" height="48" style="height:48px;width:auto;border-radius:10px;border:1px solid #a6a6a6;box-sizing:border-box"></a></div><a class="fam" href="/famiglia/">Wie die Apps zusammenarbeiten →</a></div>
+<div data-l="ko" class="getit"><p>녹음과 듣기, 비교는 로그인 없이 씁니다. AI 분석과 클라우드는 위레가토 아이디로 로그인해서 씁니다. 처음 로그인하시면 AI 30분이 7일 동안 열립니다.</p><div class="stores"><a href="https://play.google.com/store/apps/details?id=com.vicinolabs.prova&amp;hl=ko" target="_blank" rel="noopener" aria-label="Google Play"><img src="/badges/google-play-ko-nb.png" alt="Google Play" width="162" height="48" style="height:48px;width:auto;border-radius:10px;border:1px solid #a6a6a6;box-sizing:border-box"></a></div><a class="fam" href="/ko/famiglia/">앱들이 함께 일하는 방법 →</a></div><div data-l="en" class="getit on"><p>Recording, listening and comparing need no account. The AI analysis and the cloud work when you sign in with your welegato ID. Your first sign-in opens 30 AI minutes for seven days.</p><div class="stores"><a href="https://play.google.com/store/apps/details?id=com.vicinolabs.prova&amp;hl=en" target="_blank" rel="noopener" aria-label="Google Play"><img src="/badges/google-play-en-nb.png" alt="Google Play" width="162" height="48" style="height:48px;width:auto;border-radius:10px;border:1px solid #a6a6a6;box-sizing:border-box"></a></div><a class="fam" href="/en/famiglia/">How the apps work together →</a></div><div data-l="de" class="getit"><p>Aufnehmen, Anhören und Vergleichen brauchen kein Konto. Die KI-Analyse und die Cloud nutzen Sie mit Ihrer welegato-ID. Die erste Anmeldung öffnet 30 KI-Minuten für sieben Tage.</p><div class="stores"><a href="https://play.google.com/store/apps/details?id=com.vicinolabs.prova&amp;hl=de" target="_blank" rel="noopener" aria-label="Google Play"><img src="/badges/google-play-de-nb.png" alt="Google Play" width="162" height="48" style="height:48px;width:auto;border-radius:10px;border:1px solid #a6a6a6;box-sizing:border-box"></a></div><a class="fam" href="/famiglia/">Wie die Apps zusammenarbeiten →</a></div>
 </main>
 <footer><div class="wrap"><p data-l="ko" style="margin:0"><a href="/prova/privacy/#ko">개인정보처리방침</a><a href="/prova/terms/#ko">이용약관</a><a href="/impressum/">Impressum</a><a href="mailto:contact@vicinolabs.com">contact@vicinolabs.com</a></p><p data-l="en" class=on style="margin:0"><a href="/prova/privacy/#en">Privacy</a><a href="/prova/terms/#en">Terms</a><a href="/impressum/">Impressum</a><a href="mailto:contact@vicinolabs.com">contact@vicinolabs.com</a></p><p data-l="de" style="margin:0"><a href="/prova/privacy/#de">Datenschutz</a><a href="/prova/terms/#de">Nutzungsbedingungen</a><a href="/impressum/">Impressum</a><a href="mailto:contact@vicinolabs.com">contact@vicinolabs.com</a></p><div style="margin-top:10px">© 2026 Vicino Labs</div></div></footer>
 <script>(function(){var META={"ko": {"t": "프로바: 연습 비교와 제출 영상, AI 연주 점검 | Vicino Labs", "d": "같은 구간을 여러 번 녹음해 지난번과 나란히 견주고, 제출 영상을 찍어 점검합니다. AI가 음정·박자·템포·셈여림을 마디와 시간으로 짚어 줍니다."}, "en": {"t": "Prova: compare your runs, film auditions, AI on your playing | Vicino Labs", "d": "Record the same passage again and play it beside last time. Film the audition video and check it. The AI marks intonation, rhythm, tempo and dynamics by bar and by time."}, "de": {"t": "Prova: Durchläufe vergleichen, Videos prüfen, KI zum Spiel | Vicino Labs", "d": "Dieselbe Stelle noch einmal aufnehmen und neben die letzte legen. Das Bewerbungsvideo filmen und prüfen. Die KI markiert Intonation, Rhythmus, Tempo und Dynamik nach Takt und Zeit."}};

diff --git a/prova_shots.py b/prova_shots.py
@@ -23,15 +23,31 @@ LANGS = ("ko", "en", "de")
 
 IPAD = (352, 860, 1711, 2648)
 IPHONE = (168, 704, 1037, 2538)
-RADIUS = 46          # 기기 모서리(자른 그림 기준)
+# 기기 모서리 반경(원본 픽셀). 재서 찾았다 — 아이폰 118, 아이패드 70.
+# 46 으로 두었더니 마스크가 기기의 둥근 모서리보다 작아, 모서리 바깥의
+# 밝은 배경이 그림 안에 남아 흰 테처럼 보였다(2026-11-18).
+IPAD_R = 70
+IPHONE_R = 118
 
 
-def device(path, box, height):
-    """기기만 잘라 둥근 모서리로 다듬고 [height] 높이로 줄인다."""
+INSET = 4            # 기기 가장자리 안쪽으로 잘라 들어가는 픽셀 수
+
+
+def device(path, box, height, radius):
+    """기기만 잘라 둥근 모서리로 다듬고 [height] 높이로 줄인다.
+
+    가장자리를 [INSET] 만큼 안쪽에서 자른다. 원본에서 기기 테두리와 밝은
+    배경이 만나는 줄은 이미 두 색이 섞인 밝은 픽셀이라, 거기서 알파만
+    깎으면 **색은 밝은 채로 남아** 상아색 페이지 위에서 흰 테처럼 보인다
+    (대표님 2026-11-18 "모서리 깎은자리에 배경 색이 달라서 보기 안좋음").
+    섞인 줄을 아예 잘라내면 남는 가장자리가 순수한 검은 테두리라,
+    마스크가 만드는 경계도 검정에서 투명으로 곱게 넘어간다.
+    """
+    box = (box[0] + INSET, box[1] + INSET, box[2] - INSET, box[3] - INSET)
     im = Image.open(path).convert("RGB").crop(box)
     w, h = im.size
     mask = Image.new("L", (w, h), 0)
-    ImageDraw.Draw(mask).rounded_rectangle((0, 0, w - 1, h - 1), RADIUS, fill=255)
+    ImageDraw.Draw(mask).rounded_rectangle((0, 0, w - 1, h - 1), max(1, radius - INSET), fill=255)
     out = Image.new("RGBA", (w, h))
     out.paste(im, (0, 0), mask)
     k = height / h
@@ -48,28 +64,30 @@ def shadow(size, radius, blur=34, spread=16, alpha=110):
     return s.filter(ImageFilter.GaussianBlur(blur)), pad
 
 
-def place(canvas, dev, x, y):
-    sh, pad = shadow(dev.size, RADIUS)
+def place(canvas, dev, x, y, radius):
+    sh, pad = shadow(dev.size, radius)
     canvas.alpha_composite(sh, (x - pad, y - pad + 22))
     canvas.alpha_composite(dev, (x, y))
 
 
 def hero(lang):
     """아이패드 옆에 아이폰. 가로로 넓은 첫 그림."""
-    pad = device(f"{SRC}/{lang}/ipad/screenshot-2.png", IPAD, 1000)
-    pho = device(f"{SRC}/{lang}/iphone/screenshot-3.png", IPHONE, 700)
+    pad = device(f"{SRC}/{lang}/ipad/screenshot-2.png", IPAD, 1000, IPAD_R)
+    pho = device(f"{SRC}/{lang}/iphone/screenshot-3.png", IPHONE, 700, IPHONE_R)
     W, H = 1680, 1120
     c = Image.new("RGBA", (W, H), (0, 0, 0, 0))
     px = (W - pad.width) // 2 + 150
-    place(c, pad, px, (H - pad.height) // 2)
-    place(c, pho, px - pho.width + 60, H - pho.height - 60)
+    # 줄인 뒤 비율에 맞춰 그림자 반경도 줄인다
+    place(c, pad, px, (H - pad.height) // 2, round(IPAD_R * pad.height / (IPAD[3] - IPAD[1])))
+    place(c, pho, px - pho.width + 60, H - pho.height - 60,
+          round(IPHONE_R * pho.height / (IPHONE[3] - IPHONE[1])))
     return c
 
 
-def crop(lang, which, box, width):
+def crop(lang, which, box, width, radius):
     """기기 한 대를 [width] 너비로. 세로는 원래 비율대로."""
     h = round(width * (box[3] - box[1]) / (box[2] - box[0]))
-    return device(f"{SRC}/{lang}/{which[0]}/screenshot-{which[1]}.png", box, h)
+    return device(f"{SRC}/{lang}/{which[0]}/screenshot-{which[1]}.png", box, h, radius)
 
 
 def build():
@@ -79,11 +97,11 @@ def build():
         hero(lang).save(os.path.join(d, "hero.webp"), quality=86, method=6)
         # 깊이 보는 세 장면: 2 AI 연주 점검 · 3 AI 레슨 노트 · 4 두 녹음 비교
         for n in (2, 3, 4):
-            crop(lang, ("ipad", n), IPAD, 1100).save(
+            crop(lang, ("ipad", n), IPAD, 1100, IPAD_R).save(
                 os.path.join(d, f"d{n}.webp"), quality=84, method=6)
         # 요약 판 타일: 아이폰 네 장면
         for n in (1, 2, 3, 4):
-            crop(lang, ("iphone", n), IPHONE, 520).save(
+            crop(lang, ("iphone", n), IPHONE, 520, IPHONE_R).save(
                 os.path.join(d, f"t{n}.webp"), quality=82, method=6)
         print(lang, "ok")
 

diff --git a/prova_site.py b/prova_site.py
@@ -278,7 +278,10 @@ def page():
         f'<div><h2>{T[l]["con_h"]}</h2><p>{T[l]["con_p"]}</p></div></section>'
         for l, _ in LANGS)
     get = "".join(
-        f'<div data-l="{l}" class="getit{_on(l)}"><h2>{T[l]["get_h"]}</h2><p>{T[l]["get_p"]}</p>'
+        # 제목을 빼 둔다. 바로 아래 스토어 배지가 "여기서 받으세요"라는
+        # 뜻이라 "내려받기"를 또 적으면 같은 말을 두 번 한다
+        # (대표님 2026-11-18 "없어도 배지 있으니 다 알지").
+        f'<div data-l="{l}" class="getit{_on(l)}"><p>{T[l]["get_p"]}</p>'
         f'{_stores(l)}'
         f'<a class="fam" href="{"/famiglia/" if l == "de" else f"/{l}/famiglia/"}">{T[l]["fam"]} →</a></div>'
         for l, _ in LANGS)

diff --git a/leggii_site.py b/leggii_site.py
@@ -485,7 +485,10 @@ def page():
         for l, _ in LANGS)
     plans = "".join(_ptab(l) for l, _ in LANGS)
     get = "".join(
-        f'<div data-l="{l}" class="getit{_on(l)}"><h2>{T[l]["get_h"]}</h2><p>{T[l]["get_p"]}</p>'
+        # 제목을 빼 둔다. 바로 아래 스토어 배지가 "여기서 받으세요"라는
+        # 뜻이라 "내려받기"를 또 적으면 같은 말을 두 번 한다
+        # (대표님 2026-11-18 "없어도 배지 있으니 다 알지").
+        f'<div data-l="{l}" class="getit{_on(l)}"><p>{T[l]["get_p"]}</p>'
         f'<div class="stores">{badge(l)}</div>'
         f'<a class="fam" href="{"/famiglia/" if l == "de" else f"/{l}/famiglia/"}">{T[l]["fam"]} →</a></div>'
         for l, _ in LANGS)
